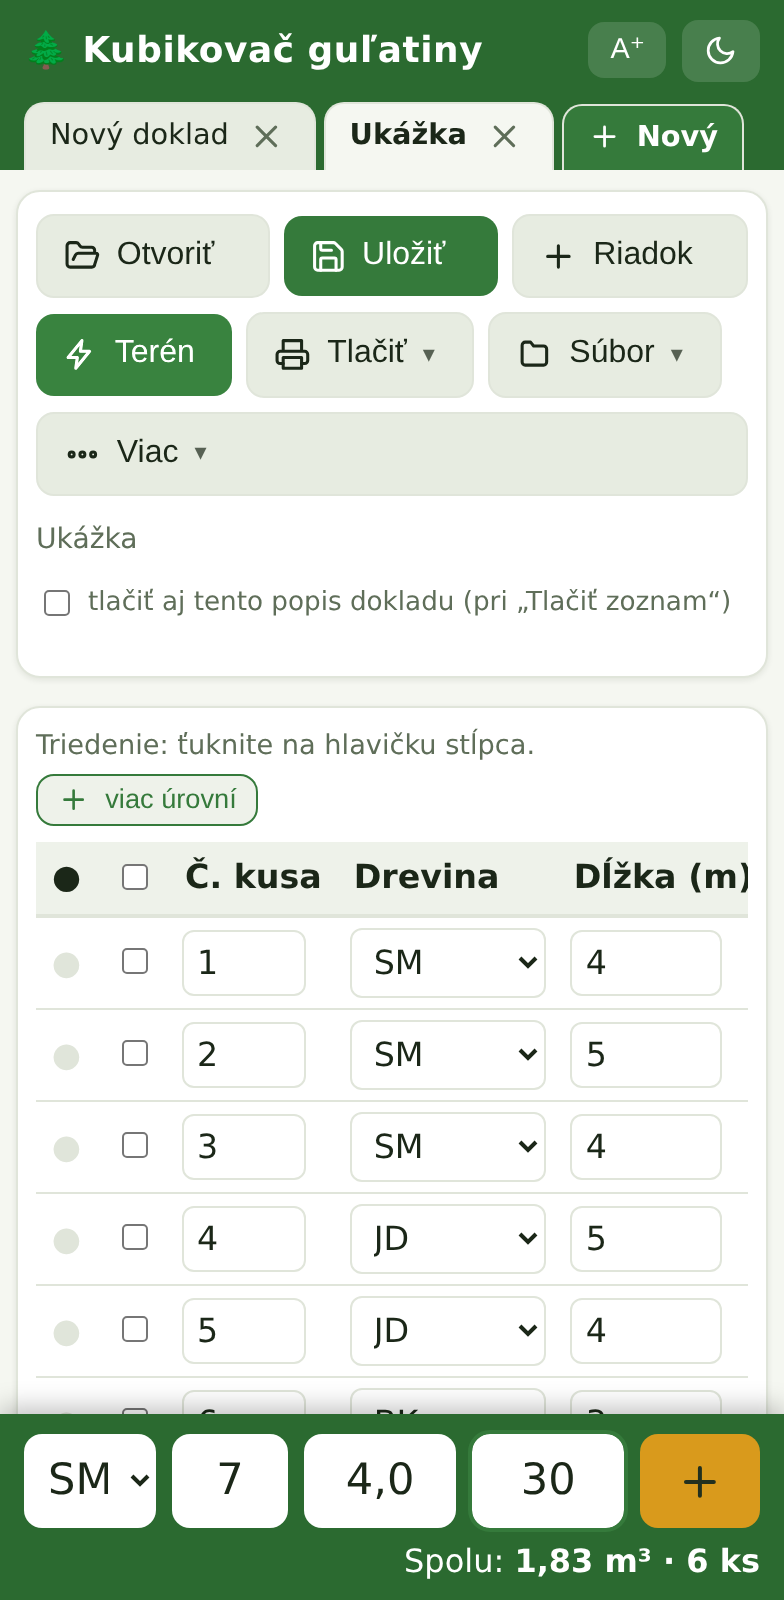
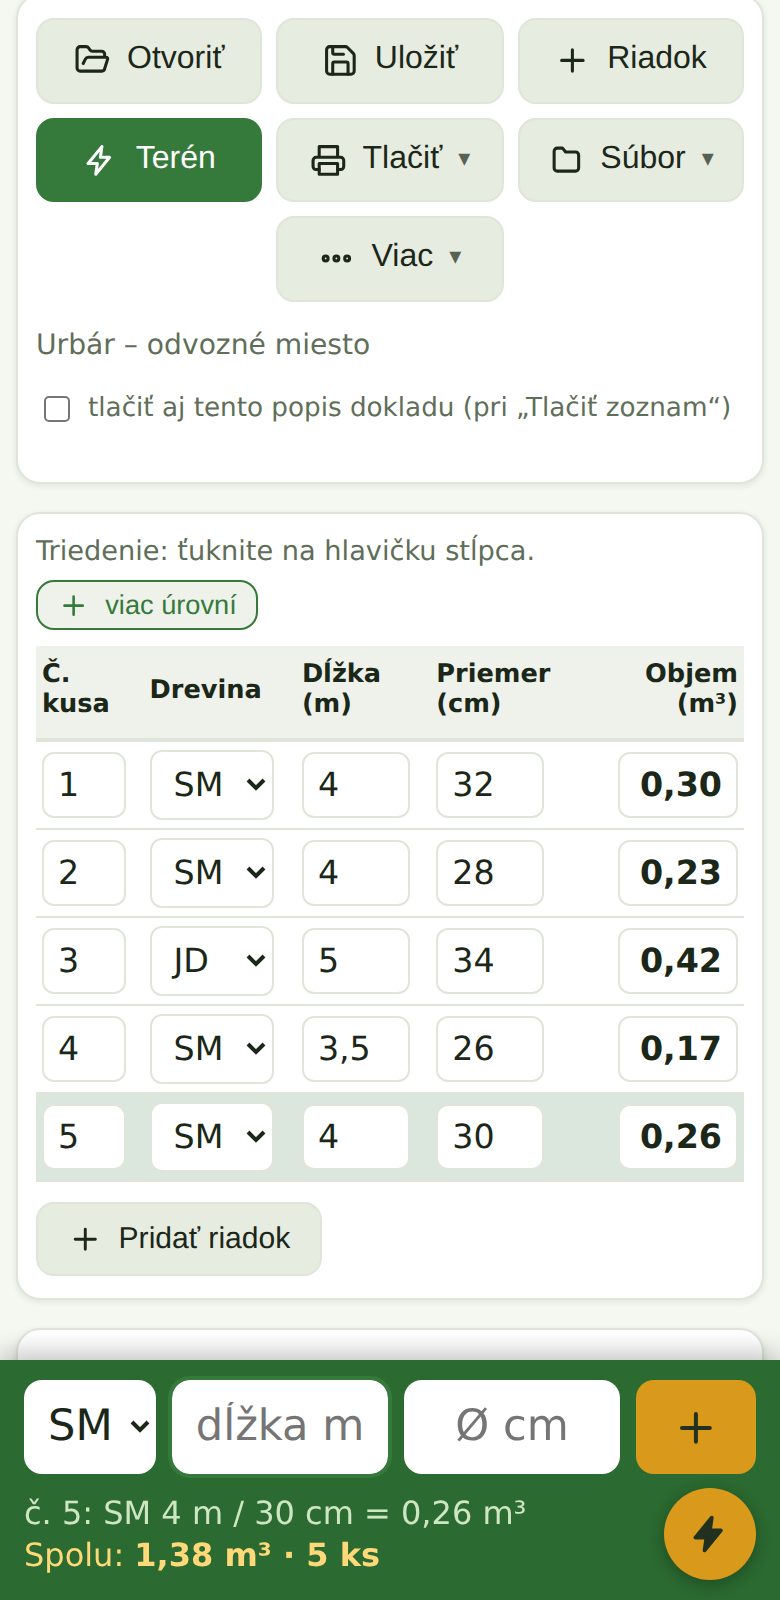
Profesionálne doladenie: jednotné karty funkcií, aktuálny mobilný screenshot terénneho režimu (1.0.9), kompaktnejší obrázok v kroku 2, prevod na PRM v prehľade funkcií namiesto veľkého obrázka

diff --git a/index.html b/index.html
@@ -209,17 +209,17 @@
       <h3>Úradný doklad LA 43</h3>
       <p>Doklad o pôvode dreva na jeden klik — na šírku aj na výšku, vytlačíte alebo uložíte do PDF.</p>
     </div>
-    <div class="karta zvyraz">
+    <div class="karta">
       <span class="znak"><svg class="ic"><use href="#i-vyber"/></svg></span>
       <h3>Rýchly doklad pre naloženú drevinu</h3>
       <p>Pri nakladaní na odvoz jednoducho zaškrtnete, ktoré kusy sa naložili — a LA 43 sa vytvorí len pre ne. Za pár sekúnd.</p>
     </div>
-    <div class="karta zvyraz">
+    <div class="karta">
       <span class="znak"><svg class="ic"><use href="#i-doklady"/></svg></span>
       <h3>Samostatný doklad pre každú drevinu</h3>
       <p>Máte všetko v jednom zozname? Program automaticky rozdelí dreviny a vytvorí samostatný LA 43 pre každú z nich.</p>
     </div>
-    <div class="karta zvyraz">
+    <div class="karta">
       <span class="znak"><svg class="ic"><use href="#i-skratit"/></svg></span>
       <h3>Skrátenie dĺžok o ľubovoľnú hodnotu</h3>
       <p>Zadáte, o koľko metrov skrátiť namerané dĺžky, a objem sa hneď prepočíta — s náhľadom pred a po.</p>
@@ -234,7 +234,7 @@
       <h3>Prídavok na dĺžku 1 %</h3>
       <p>Voliteľne odpočíta prídavok na dĺžku 1 % – z nameranej dĺžky určí menovitú (÷ 1,01) a z nej počíta objem. Na výber najviac 10 cm na výrez alebo 1 % z celej dĺžky bez obmedzenia.</p>
     </div>
-    <div class="karta zvyraz">
+    <div class="karta">
       <span class="znak"><svg class="ic"><use href="#i-graf"/></svg></span>
       <h3>Prevod na priestorové metre (PRM)</h3>
       <p>Palivové drevo prepočítate jedným klikom: m³ ↔ priestorový meter rovnaný (PRMR) aj sypaný (PRMS) — z celého dokladu, označených kusov alebo ručne zadanej hodnoty. Zadáte cenu za zvolenú jednotku a program dopočíta ekvivalenty aj celkovú sumu. Koeficienty si upravíte podľa dohody.</p>
@@ -254,7 +254,7 @@
       <h3>Triedenie a výber na viac úrovní</h3>
       <p>Zoradíte kusy podľa dreviny, dĺžky, priemeru či objemu — aj kombinovane. Označené kusy použijete na doklad či prepočet.</p>
     </div>
-    <div class="karta zvyraz">
+    <div class="karta">
       <span class="znak"><svg class="ic"><use href="#i-spoj"/></svg></span>
       <h3>Spojenie viacerých dokladov</h3>
       <p>Načítané uložené súbory pridáte do aktuálneho dokladu — z viacerých zoznamov spravíte jeden.</p>
@@ -286,14 +286,6 @@
     <img src="obrazky/mobil.png" alt="Terénny režim mobilnej aplikácie Kubikovač">
     <figcaption>Veľké polia, výber dreviny a bežiaci súčet objemu — kus zadáte aj jednou rukou.</figcaption>
   </figure>
-
-  <h3 class="ukazka-nadpis">Prevod palivového dreva na priestorové metre</h3>
-  <div class="galeria">
-    <figure>
-      <img src="obrazky/prevod_prm.png" alt="Prevod objemu dreva na priestorové metre PRMR a PRMS s cenou" loading="lazy">
-      <figcaption>Objem z dokladu prepočítate na PRMR (rovnaný) a PRMS (sypaný). Zadáte cenu za zvolenú jednotku a program dopočíta ekvivalentné ceny aj celkovú sumu.</figcaption>
-    </figure>
-  </div>
 
   <h3 class="ukazka-nadpis">Odpočet hniloby a odrezkov</h3>
   <div class="galeria">

diff --git a/ako-to-funguje.html b/ako-to-funguje.html
@@ -240,7 +240,7 @@
       </ul>
       <div class="tipbox">💡 <b>Tip:</b> Enter na klávesnici pridá kus a skočí na ďalší — dávkové zadávanie bez ťukania.</div>
     </div>
-    <div class="obraz"><img src="obrazky/mobil.png" alt="Terénny režim na mobile"></div>
+    <div class="obraz" style="max-width:300px;justify-self:center;align-self:start"><img src="obrazky/mobil.png" alt="Terénny režim na mobile — kompaktná tabuľka a rýchle zadávanie"></div>
   </div>
 
   <!-- 3: odpočty -->
@@ -376,6 +376,7 @@
       <div class="fkarta"><span class="zn"><svg class="ic"><use href="#i-minus"/></svg></span><div><b>Odpočty hniloby a odrezkov</b><span>Hrubý aj čistý objem po odpočte — všetko zdokladované.</span></div></div>
       <div class="fkarta"><span class="zn"><svg class="ic"><use href="#i-percent"/></svg></span><div><b>Prídavok na dĺžku 1&nbsp;%</b><span>Menovitá dĺžka z nameranej (÷ 1,01), max 10 cm alebo bez limitu.</span></div></div>
       <div class="fkarta"><span class="zn"><svg class="ic"><use href="#i-euro"/></svg></span><div><b>Cenník podľa triedy</b><span>Ceny €/m³ na drevinu aj triedu I–III.D, cena dokladu.</span></div></div>
+      <div class="fkarta"><span class="zn"><svg class="ic"><use href="#i-graf"/></svg></span><div><b>Prevod na priestorové metre</b><span>Palivové drevo: m³ ↔ PRMR/PRMS s cenou a celkovou sumou; koeficienty podľa dohody.</span></div></div>
       <div class="fkarta"><span class="zn"><svg class="ic"><use href="#i-graf"/></svg></span><div><b>Súčty a štatistiky</b><span>Po drevinách aj celkovo, naprieč všetkými zákazkami.</span></div></div>
       <div class="fkarta"><span class="zn"><svg class="ic"><use href="#i-sort"/></svg></span><div><b>Triedenie a výber na viac úrovní</b><span>Podľa dreviny, dĺžky, priemeru, objemu — aj kombinovane.</span></div></div>
       <div class="fkarta"><span class="zn"><svg class="ic"><use href="#i-spoj"/></svg></span><div><b>Spojenie viacerých dokladov</b><span>Viac uložených dokladov spojíš do jedného.</span></div></div>